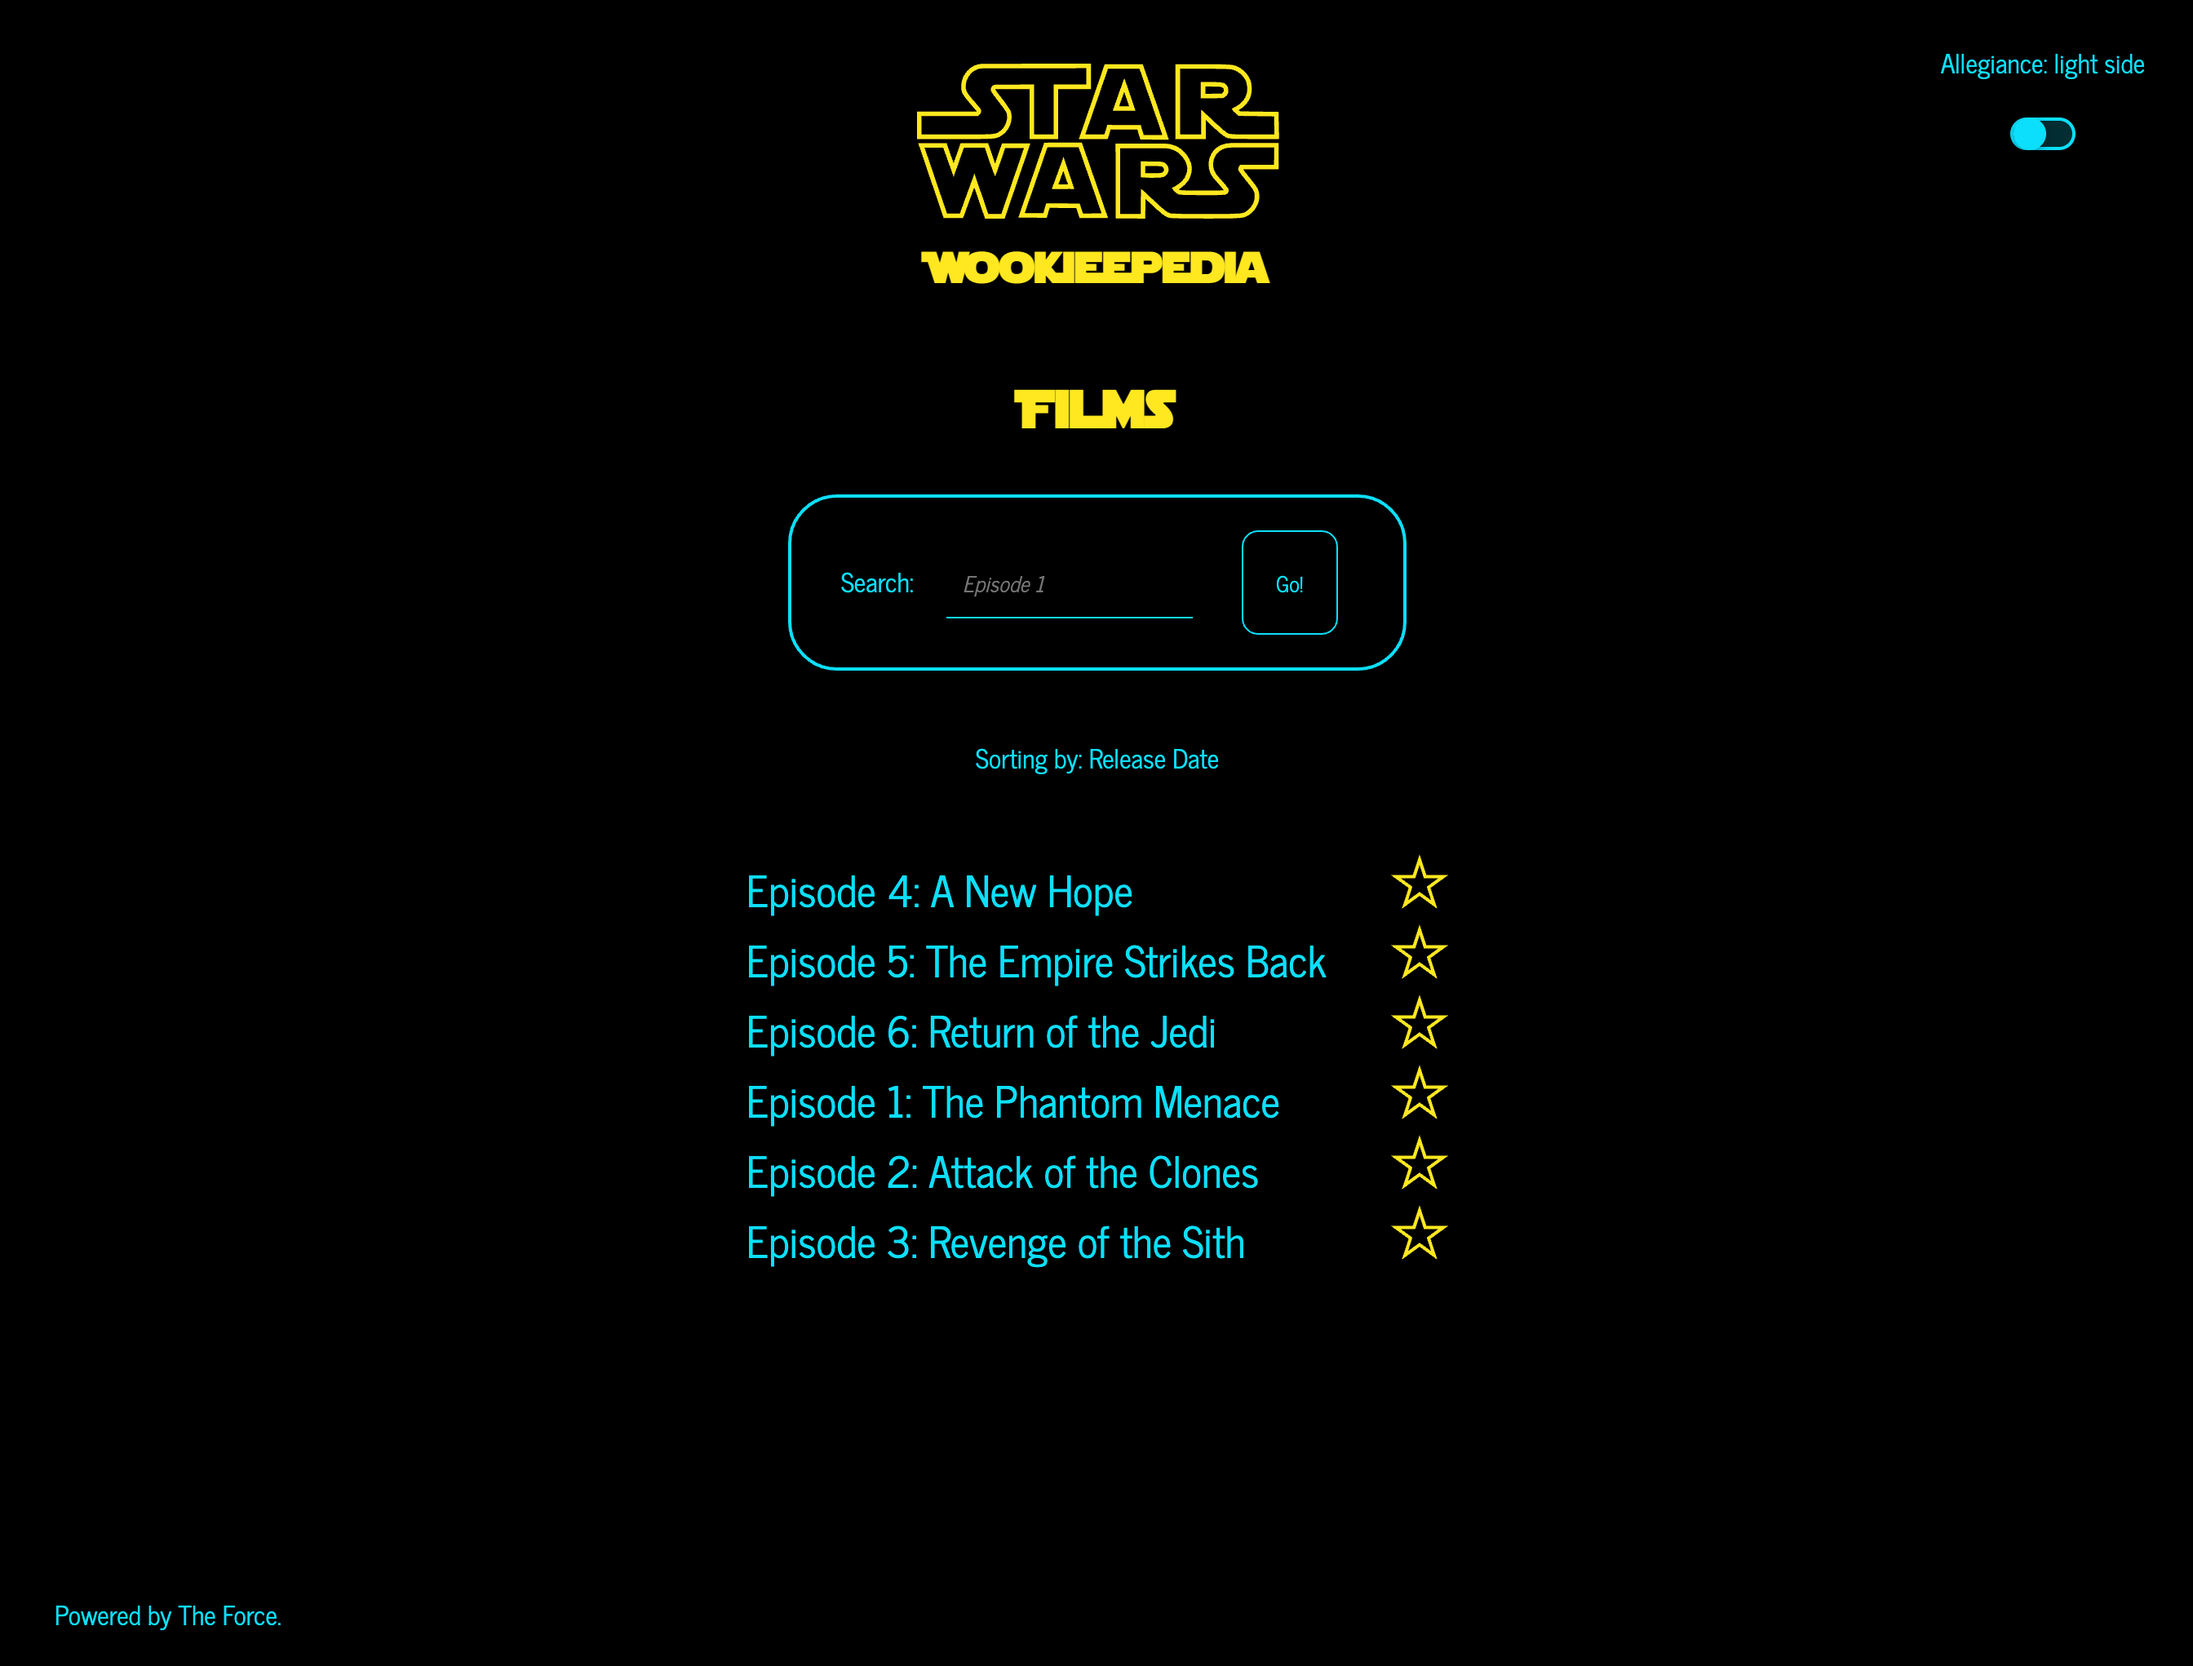
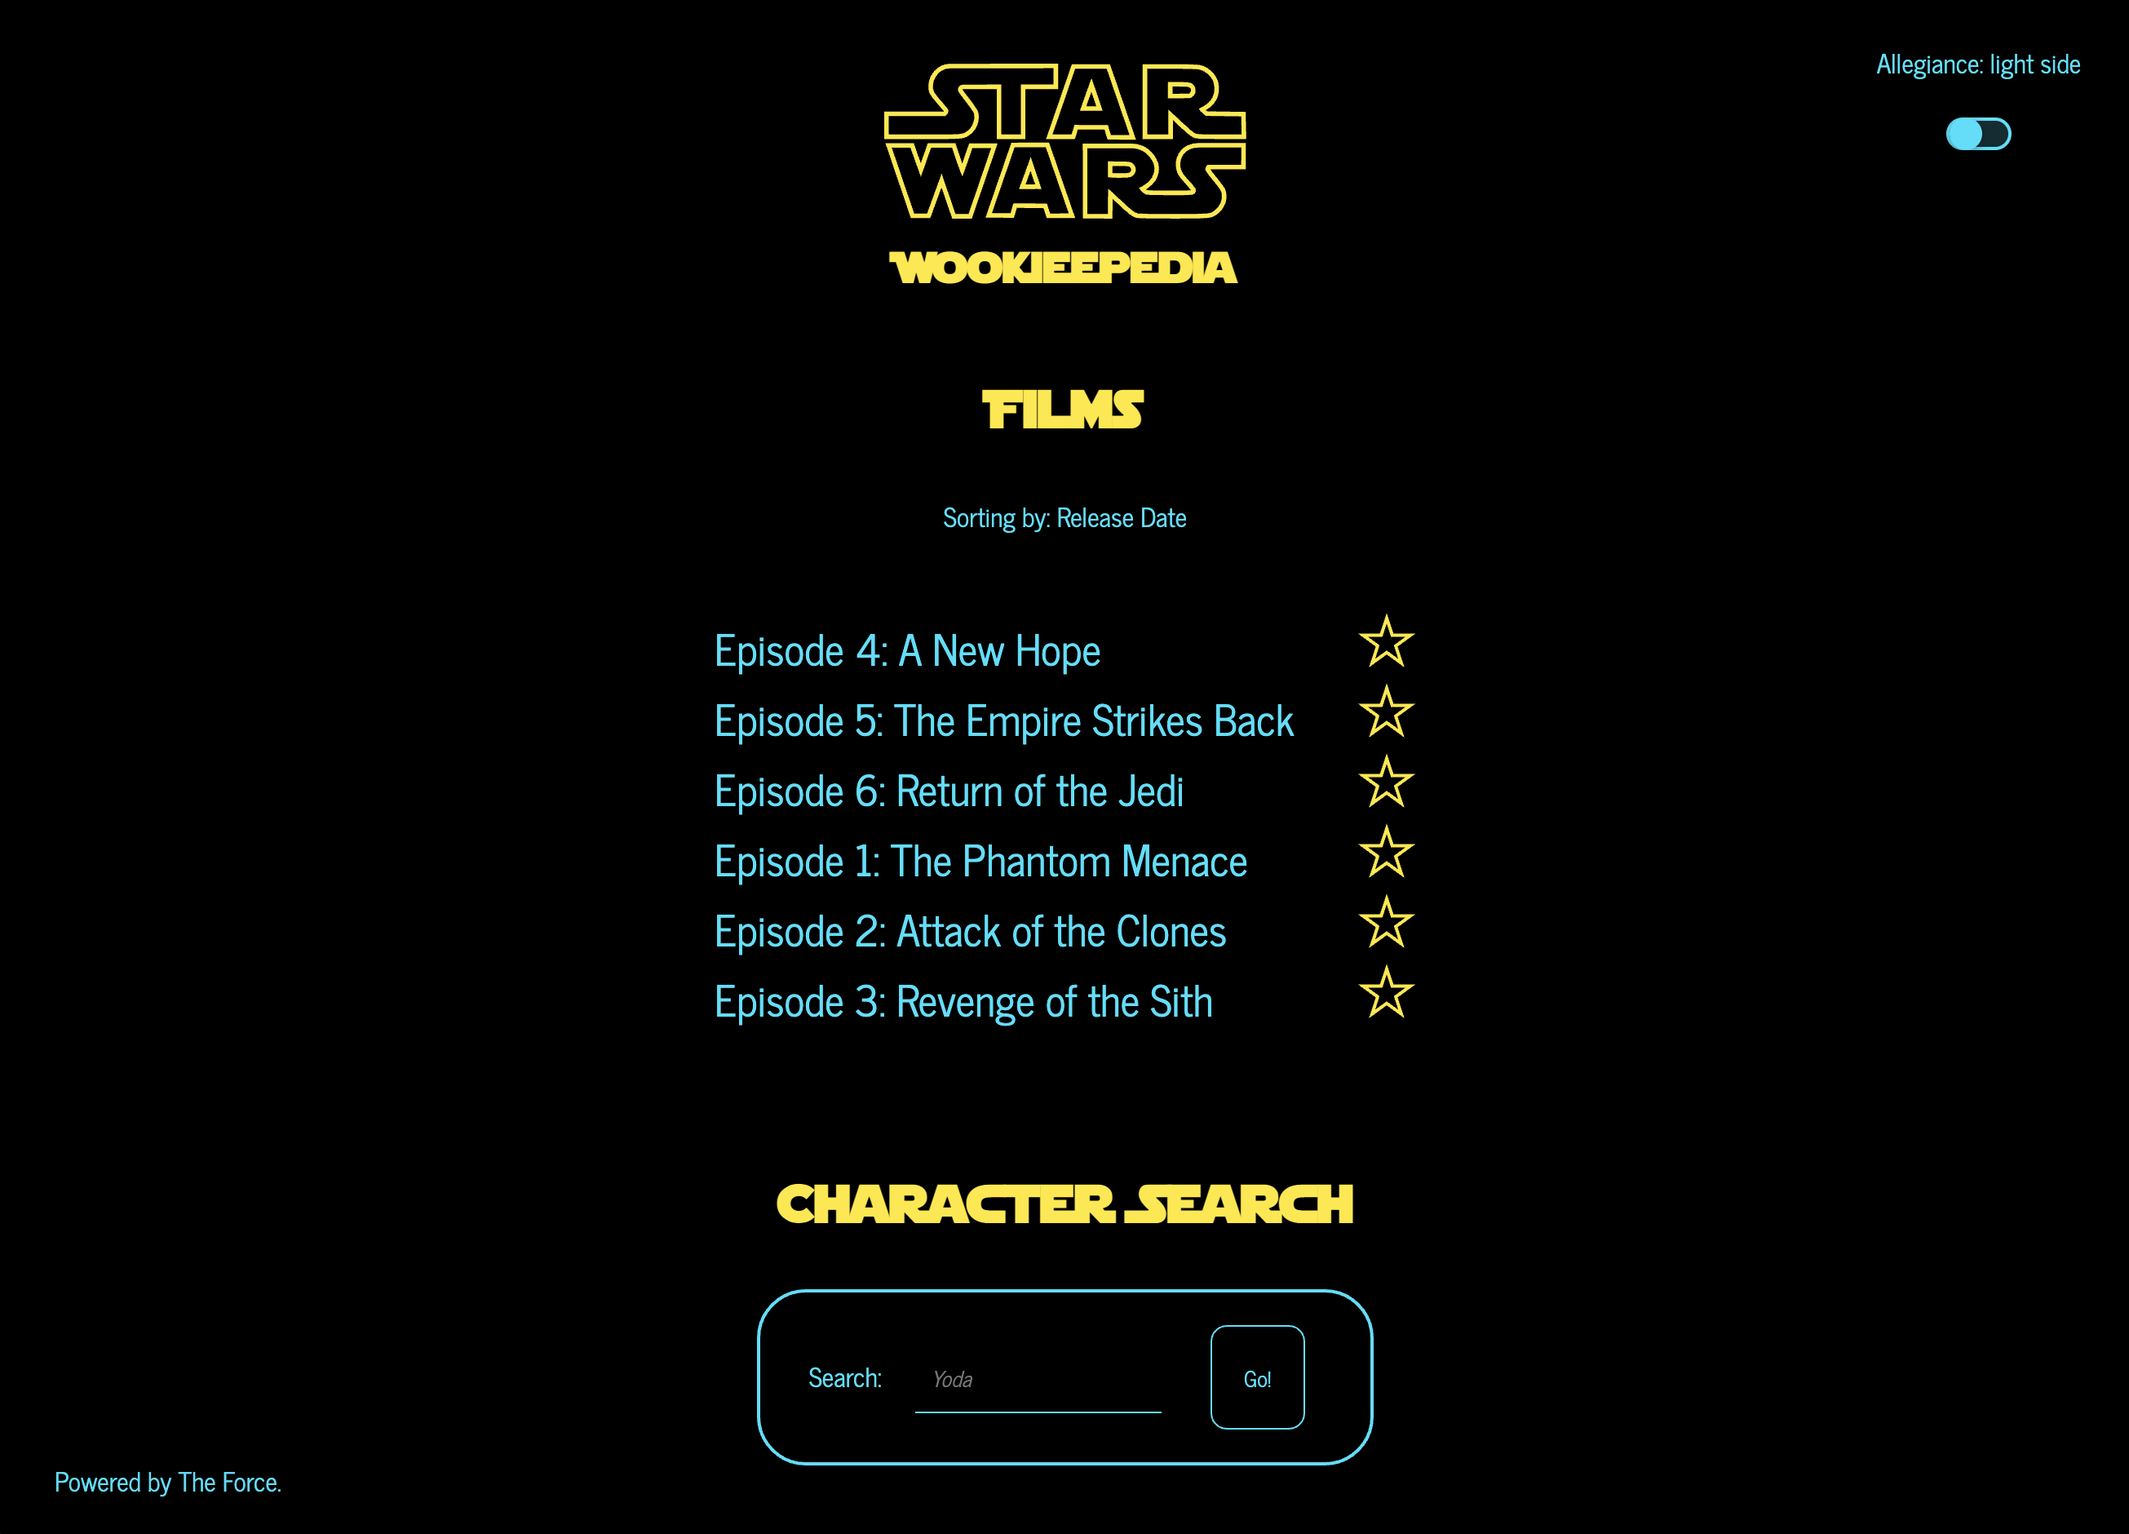
Updates README and FilmSearch search field placeholder text.

diff --git a/components/FilmSearch/FilmSearch.js b/components/FilmSearch/FilmSearch.js
@@ -35,7 +35,7 @@ const FilmSearch = () => {
 
         <div className={ styles.searchContainer }>
           Search:
-          <input type="text" placeholder="Episode 1" onChange={ (e) => { handleChange(e) } }></input>
+          <input type="text" placeholder="Yoda" onChange={ (e) => { handleChange(e) } }></input>
           <button onClick={ () => { getResults() } }>Go!</button>
         </div>
 

diff --git a/README.md b/README.md
@@ -11,21 +11,26 @@ Explore all the details for all your favourite Star Wars films.
 
 ## Features
 
-- _Star_ your favourite Star Wars films!
+- ⭐_Star_⭐ your favourite Star Wars films!
 - View film details including character information and general film specs!
 - Choose your allegiance - are you on the dark or light side?
-- Your allegiance and starred films are saved to localStorage so you don't have to start back where you started off each time you visit :)
+- Search for your favourite characters!
 
 ![Wookieepedia Image | Home](public/readme-image-2.png)
 
-### Coming features
+### Coming soon
 
-- Film search on the home page
+- Save your favourites! ⭐
+- Extended information on characters within the search (including films the character appears on with a link to its detail page)
+- Dynamic starfield background
 - Sort films by episode number or release date
 
-### Known issues
+#### Message to the developer
 
-- Mixed Content is preventing data loading on the detail pages, this is I believe being caused by nested references within each parent directory on the SWAPI holding http references.
-- Meta image references aren't loading I believe due to SSR needing to be utilised here.
+### Known issues / being worked on
 
-Thank you to [SWAPI](https://swapi.dev/) for making this possible!
+- Saving favourites caused a lot of issues as I couldn't figure why the first instance a favourite was selected wouldn't be favourited. (removed film from the `filmsList` and added it to the favourites list). It was saving the user's last selection rather than the current one. This suggests to me that it was saving the `favorites` state to localStorage before the update had been made to the state though I tried a number of methods using async/await and promises in the attempt to ensure the states were updated before localStorage was updated. Would love to know why here!
+- Meta image references aren't loading I believe due to SSR needing to be considered for the loading sequence of these image assets.
+
+
+Thank you to [SWAPI](https://swapi.dev/) and the WM crew for making this app possible!
